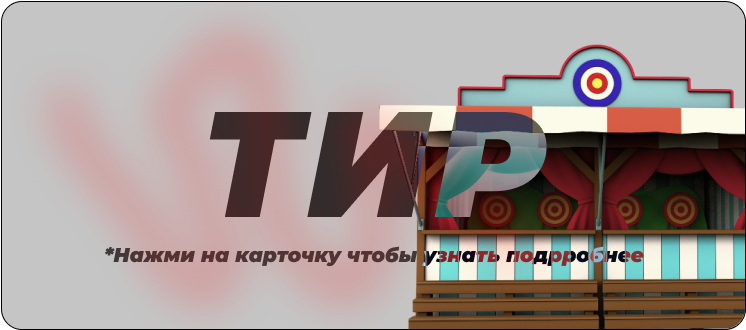
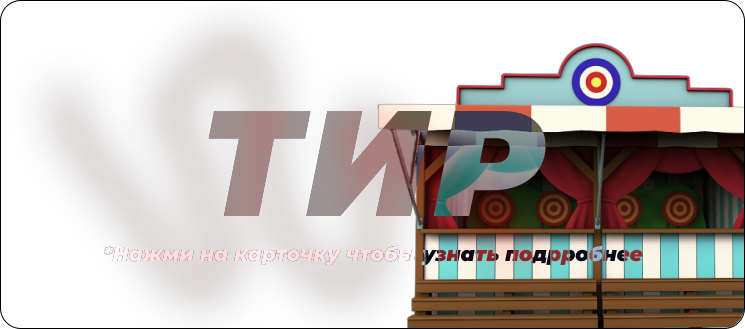
fix: изменены карточки в блоке 2
Изменены изображения, на изображения с прозрачным фоном.
Чтобы реализовать подсветку, при наведении на карточку.

diff --git a/style.css b/style.css
@@ -154,6 +154,13 @@ body {
 .cards_item {
     width: 100%;
     margin-top: 30px;
+    background-color: #C5C5C5;
+    border-radius: 21px;
+    transition: background-color 0.3s;
+}
+
+.cards_item:hover {
+    background-color: #8C877A;
 }
 
 /* Это разделение*/
